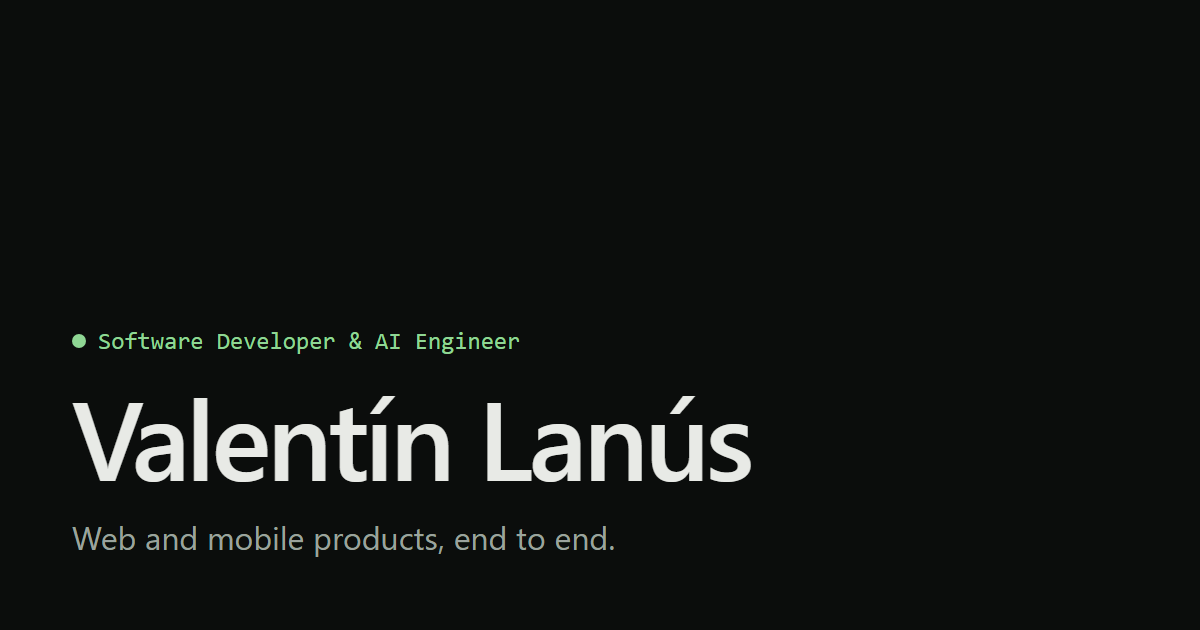
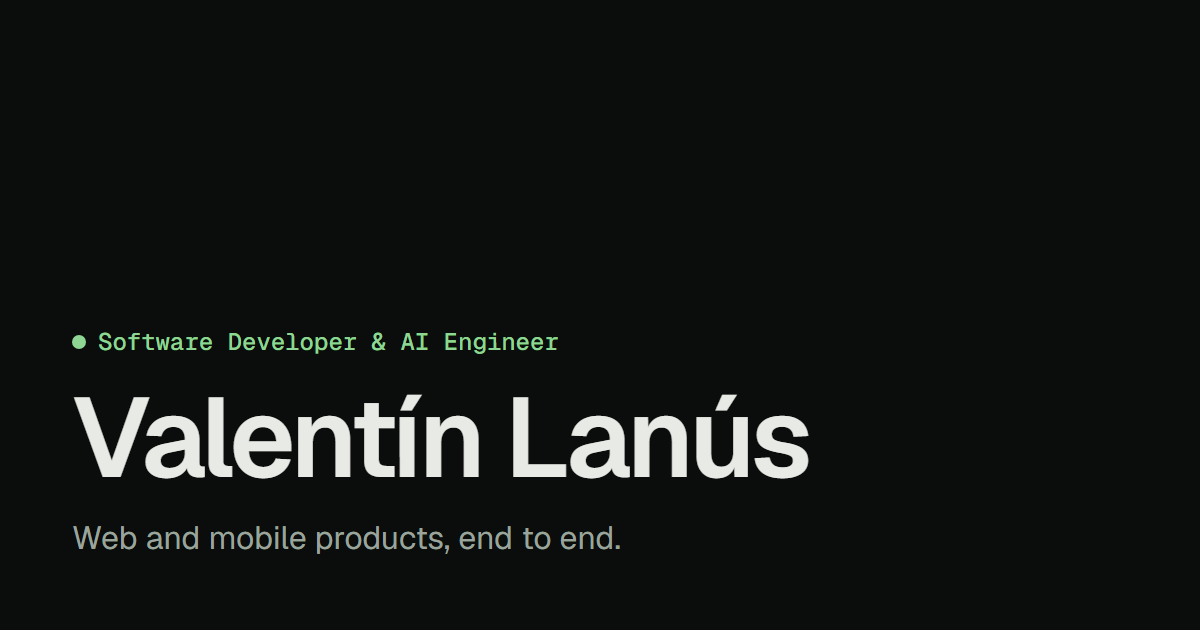
fix: guarda de hashes CSP, CSP más estricta, robots desde site y OG con Geist

Changed region(s): [[0.0617, 0.6032, 0.6783, 0.7841], [0.0617, 0.5127, 0.4625, 0.573], [0.0617, 0.8444, 0.5242, 0.8746]]

diff --git a/tests/csp.spec.ts b/tests/csp.spec.ts
@@ -1,0 +1,46 @@
+import { test, expect } from '@playwright/test';
+import { createHash } from 'node:crypto';
+import { readFileSync } from 'node:fs';
+import { fileURLToPath } from 'node:url';
+
+const read = (relative: string) =>
+  readFileSync(fileURLToPath(new URL(relative, import.meta.url)), 'utf8');
+
+type HeaderRule = { source: string; headers: { key: string; value: string }[] };
+const rules: HeaderRule[] = JSON.parse(read('../vercel.json')).headers;
+const allHeaders = rules.flatMap((rule) => rule.headers);
+
+// Hash de cada <script> inline ejecutable (sin src y que no sea JSON-LD), sobre el cuerpo exacto.
+const inlineScriptHashes = (html: string) => {
+  const hashes = new Set<string>();
+  for (const [, attrs, body] of html.matchAll(/<script([^>]*)>([\s\S]*?)<\/script>/g)) {
+    if (/\bsrc\s*=/.test(attrs)) continue;
+    if (/\btype\s*=\s*["']?application\/ld\+json/i.test(attrs)) continue;
+    hashes.add('sha256-' + createHash('sha256').update(body).digest('base64'));
+  }
+  return hashes;
+};
+
+test('los hashes de script-src en vercel.json coinciden con los scripts inline del build', () => {
+  const built = new Set([
+    ...inlineScriptHashes(read('../dist/index.html')),
+    ...inlineScriptHashes(read('../dist/en.html')),
+  ]);
+  expect(built.size, 'el build tiene que tener scripts inline para hashear').toBeGreaterThan(0);
+
+  const csp = allHeaders.find((h) => h.key === 'Content-Security-Policy-Report-Only');
+  expect(csp, 'falta el header Content-Security-Policy-Report-Only').toBeDefined();
+  const scriptSrc = csp!.value
+    .split(';')
+    .map((directive) => directive.trim())
+    .find((directive) => directive.startsWith('script-src '));
+  expect(scriptSrc, 'falta la directiva script-src').toBeDefined();
+  const declared = new Set(scriptSrc!.match(/'(sha256-[^']+)'/g)?.map((t) => t.slice(1, -1)));
+
+  expect([...declared].sort()).toEqual([...built].sort());
+});
+
+test('la CSP sigue en modo Report-Only (ningún header enforcing)', () => {
+  const enforcing = allHeaders.filter((h) => h.key.toLowerCase() === 'content-security-policy');
+  expect(enforcing).toEqual([]);
+});

diff --git a/tests/i18n.spec.ts b/tests/i18n.spec.ts
@@ -34,7 +34,9 @@ test('SEO en español: descripción y og:locale', async ({ page }) => {
 
 test('sitemap con ambas rutas, robots y OG', async ({ request }) => {
   const sitemap = await (await request.get('/sitemap-0.xml')).text();
-  expect(sitemap).toContain('https://valentinlanus.vercel.app/en');
+  expect(sitemap).toContain('<loc>https://valentinlanus.vercel.app/</loc>');
+  expect(sitemap).toContain('<loc>https://valentinlanus.vercel.app/en</loc>');
+  expect((await request.get('/sitemap-index.xml')).status()).toBe(200);
   const robots = await request.get('/robots.txt');
   expect(await robots.text()).toContain(
     'Sitemap: https://valentinlanus.vercel.app/sitemap-index.xml',

diff --git a/src/pages/robots.txt.ts b/src/pages/robots.txt.ts
@@ -1,0 +1,6 @@
+import type { APIRoute } from 'astro';
+
+export const GET: APIRoute = ({ site }) =>
+  new Response(`User-agent: *\nAllow: /\n\nSitemap: ${new URL('sitemap-index.xml', site).href}\n`, {
+    headers: { 'Content-Type': 'text/plain; charset=utf-8' },
+  });
